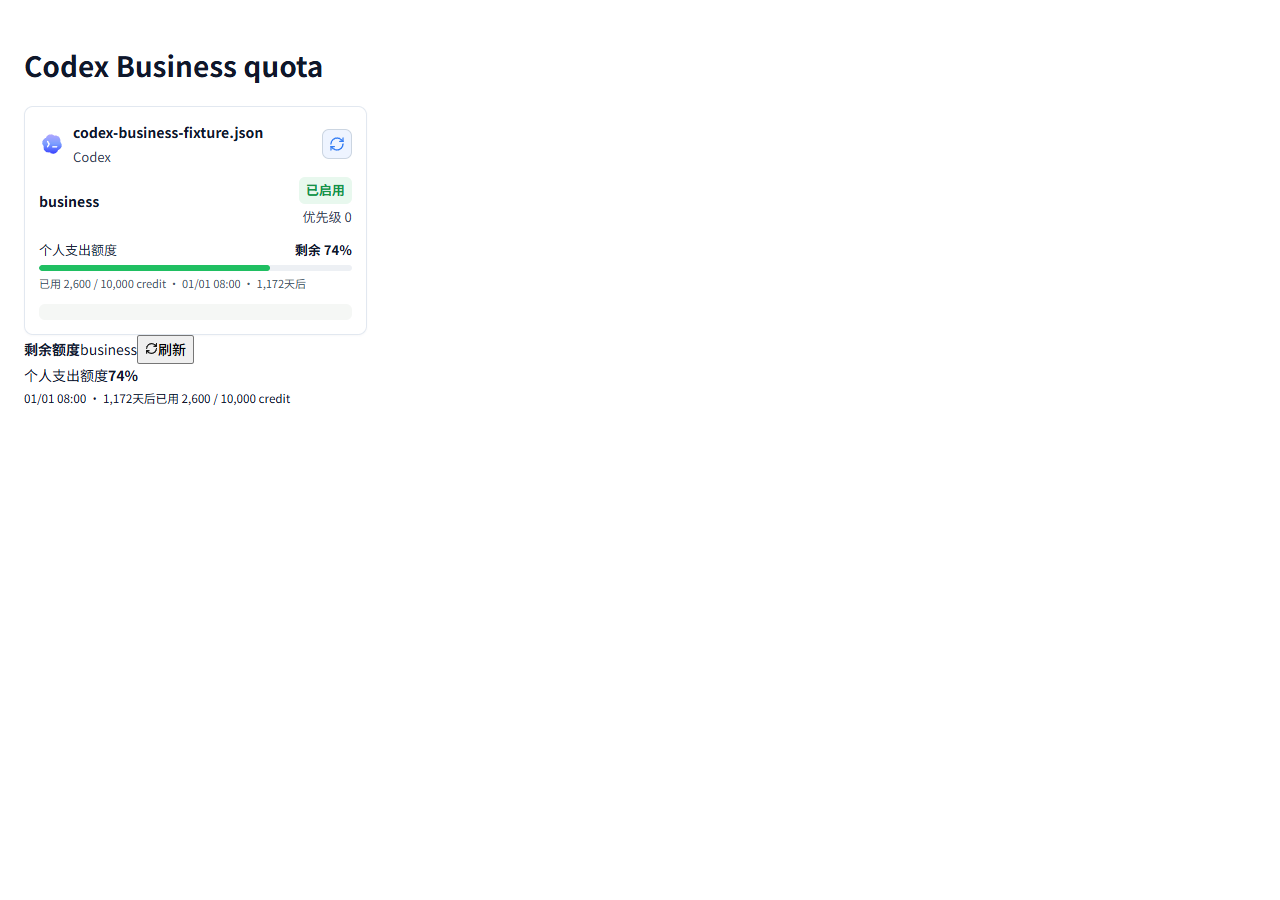
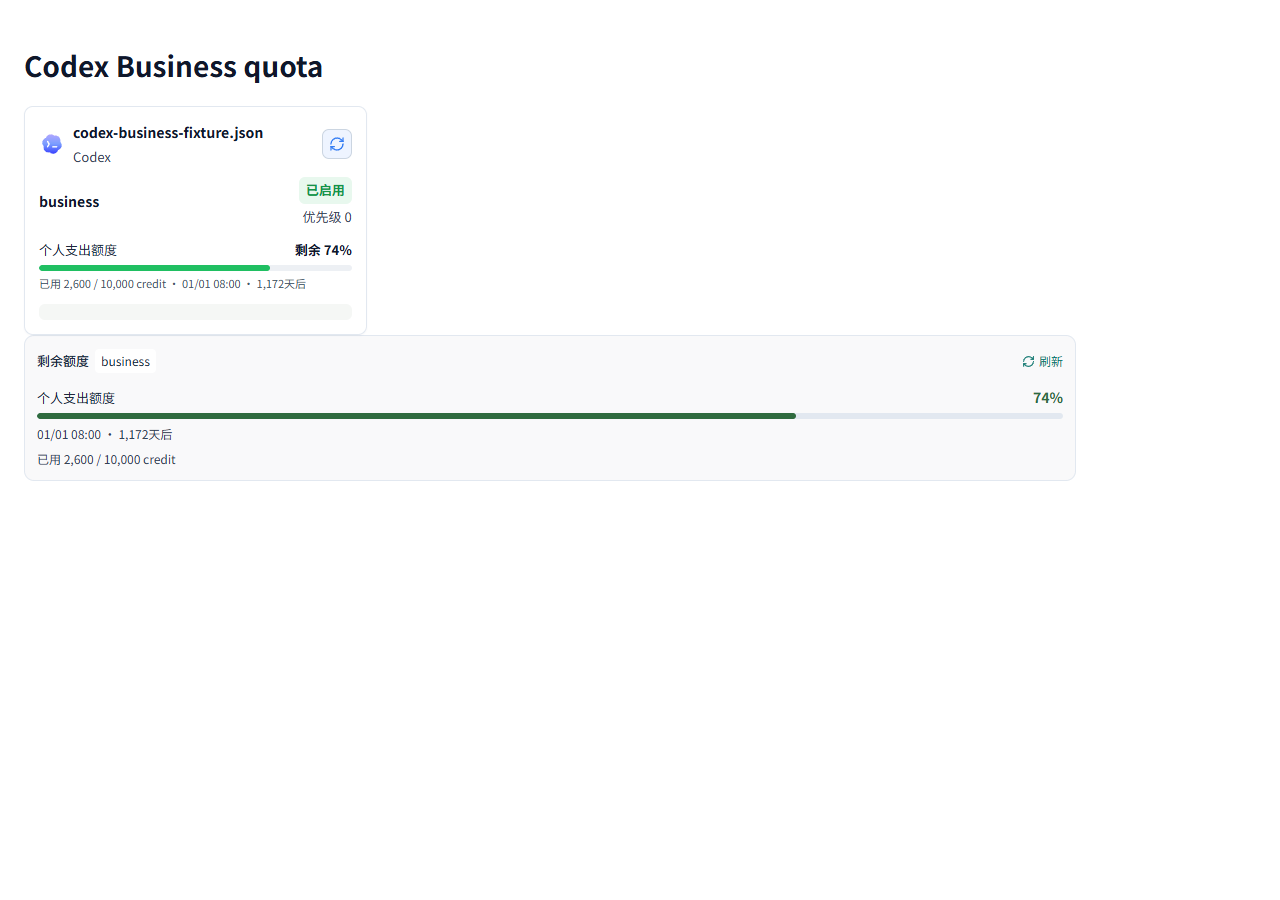
fix: align Antigravity quota windows and availability

Changed region(s): [[0.0, 0.3733, 0.8438, 0.5289], [0.8125, 0.3733, 0.8438, 0.4044]]

diff --git a/frontend/src/services/quotaService.ts b/frontend/src/services/quotaService.ts
@@ -1,3 +1,4 @@
+import { antigravityWindow, antigravityBucketLabel, antigravityGroupLabel, antigravityDescription } from './antigravityQuotaLabels';
 import { captureQuotaCacheGeneration } from './quotaCache';
 import { readClaudeResetGrants, type AnthropicResetGrantStatus } from './claudeResetGrants';
 import { selectResetGrant } from './selectClaudeResetGrant';
@@ -27,6 +28,7 @@ export type QuotaStatus = 'idle' | 'loading' | 'success' | 'unavailable' | 'erro
 export type QuotaRow = {
   label: string;
   remainingPercent: number | null;
+  quotaAvailable?: boolean;
   reset?: string;
   resetAtMs?: number;
   detail?: string;
@@ -95,7 +97,8 @@ const headersByProvider: Record<QuotaProvider, Record<string, string>> = {
   antigravity: {
     Authorization: 'Bearer $TOKEN$',
     'Content-Type': 'application/json',
-    'User-Agent': 'antigravity/cli/1.0.13 (aidev_client; os_type=darwin; arch=arm64)',
+    // Keep quota and loadCodeAssist requests aligned with the Hub client.
+    'User-Agent': 'antigravity/hub/2.23.0 darwin/arm64',
   },
 };
 
@@ -604,30 +607,37 @@ export const quotaRowsFor = (provider: QuotaProvider, payload: unknown): QuotaRo
   const summary = !Array.isArray(value.groups) && isRecord(nested) ? nested : value;
   const groups = Array.isArray(summary.groups) ? summary.groups : [];
   return groups.flatMap((group) => {
-    if (!isRecord(group) || !Array.isArray(group.buckets)) return [];
+    if (!isRecord(group) || !Array.isArray(group.buckets)) { return []; }
     const order = (bucket: unknown) => {
-      const window = readString(bucket, 'window').toLowerCase();
+      const window = antigravityWindow(readString(bucket, 'display_name', 'displayName', 'description'), readString(bucket, 'window'));
       return ['5h', 'five-hour', 'five_hour'].includes(window) ? 0 : ['weekly', 'week'].includes(window) ? 1 : 2;
     };
     const buckets = [...group.buckets].sort((a, b) => order(a) - order(b));
-    const groupLabel = readString(group, 'display_name', 'displayName')
-      || quotaText('quota.service.quota');
-    const groupDescription = readString(group, 'description');
+    const rawGroupLabel = readString(group, 'display_name', 'displayName');
+    const groupLabel = antigravityGroupLabel(rawGroupLabel) || quotaText('quota.service.quota');
+    const groupDescription = antigravityDescription(readString(group, 'description'));
+    const weeklyExhausted = buckets.some(bucket => isRecord(bucket)
+      && antigravityWindow(readString(bucket, 'display_name', 'displayName', 'description'), readString(bucket, 'window')) === 'weekly'
+      && quotaFraction(bucket.remaining_fraction ?? bucket.remainingFraction) === 0);
     return buckets
       .map((bucket, index): QuotaRow | null => {
-        if (!isRecord(bucket)) return null;
+        if (!isRecord(bucket)) { return null; }
         const remaining = quotaFraction(bucket.remaining_fraction ?? bucket.remainingFraction);
-        if (remaining === null) return null;
-        const bucketLabel = readString(bucket, 'display_name', 'displayName', 'window');
+        if (remaining === null) { return null; }
+        const rawBucketLabel = readString(bucket, 'display_name', 'displayName', 'description');
+        const window = readString(bucket, 'window');
+        const bucketLabel = antigravityBucketLabel(rawBucketLabel, window);
         const label = bucketLabel && (buckets.length > 1 || bucketLabel !== groupLabel)
           ? `${groupLabel} · ${bucketLabel}`
           : groupLabel;
         return {
           label: label || quotaText('quota.service.quota.numbered', { index: index + 1 }),
           remainingPercent: remaining * 100,
+          quotaAvailable: remaining === 1
+            && !(antigravityWindow(rawBucketLabel, window) === '5h' && weeklyExhausted),
           reset: absoluteResetLabel(bucket.reset_time ?? bucket.resetTime),
           resetAtMs: quotaResetFor(bucket, ['reset_time', 'resetTime']),
-          detail: readString(bucket, 'description') || groupDescription || undefined,
+          detail: [groupDescription, antigravityDescription(readString(bucket, 'description'))].filter(Boolean).join(' · ') || undefined,
         };
       })
       .filter((row): row is QuotaRow => row !== null);

diff --git a/frontend/tests/antigravityQuota.test.tsx b/frontend/tests/antigravityQuota.test.tsx
@@ -1,0 +1,41 @@
+import { describe, expect, it } from 'bun:test';
+import { renderToStaticMarkup } from 'react-dom/server';
+import { I18nProvider } from '../src/i18n';
+import { QuotaCard } from '../src/pages/QuotaPage';
+import { quotaRowsFor } from '../src/services/quotaService';
+import { antigravityDescription } from '../src/services/antigravityQuotaLabels';
+
+describe('Antigravity current quota response', () => {
+  const rowsFor = (weekly: number) => quotaRowsFor('antigravity', { groups: [{
+    displayName: 'Gemini Models',
+    description: 'Models within this group: Gemini Flash, Gemini Pro',
+    buckets: [
+      { displayName: 'Weekly Limit Remaining', remainingFraction: weekly },
+      { displayName: 'Five Hour Limit Remaining', remainingFraction: 1, resetTime: '2030-01-01T00:00:00Z' },
+    ],
+  }] });
+
+  it('recognizes new labels without window fields and preserves model details', () => {
+    const rows = rowsFor(0.4);
+    expect(rows.map(row => row.label)).toEqual(['Gemini models · 5-hour limit', 'Gemini models · Weekly limit']);
+    expect(rows[0].quotaAvailable).toBe(true);
+    expect(rows[0].resetAtMs).toBe(Date.parse('2030-01-01T00:00:00Z'));
+    expect(rows[0].detail).toBe('Models within this group: Gemini Flash, Gemini Pro');
+    expect(rows[0].detail).not.toContain('Gemini Argon');
+    expect(antigravityDescription('Models within this group: gemini argon')).toBe('Models within this group: gemini argon');
+    expect(antigravityDescription('Custom description')).toBe('Custom description');
+  });
+
+  it('does not claim availability when the weekly quota is exhausted', () => {
+    const rows = rowsFor(0);
+    expect(rows[0].remainingPercent).toBe(100);
+    expect(rows[0].quotaAvailable).toBe(false);
+    const render = (weekly: number) => renderToStaticMarkup(
+      <I18nProvider><QuotaCard file={{ name: 'test.json', provider: 'antigravity' }}
+        quota={{ status: 'success', rows: rowsFor(weekly) }} onRefresh={() => {}} onReset={() => {}} /></I18nProvider>,
+    );
+    expect(render(0)).not.toContain('Quota available');
+    expect(render(0)).toContain('100% remaining');
+    expect(render(0.4)).toContain('Quota available');
+  });
+});

diff --git a/frontend/tests/fixtures/antigravity-quota.tsx b/frontend/tests/fixtures/antigravity-quota.tsx
@@ -1,0 +1,43 @@
+import React from 'react';
+import { createRoot } from 'react-dom/client';
+import { I18nProvider, useI18n } from '../../src/i18n';
+import { QuotaCard } from '../../src/pages/QuotaPage';
+import { AuthFileQuotaPanel } from '../../src/components/AuthFileQuotaPanel';
+import { quotaRowsFor } from '../../src/services/quotaService';
+import '../../src/styles/index.css';
+import '../../src/pages/AuthFileManagementPage.css';
+
+const params = new URLSearchParams(location.search);
+localStorage.setItem('easy-cli-proxy-api.locale', params.get('locale') || 'en');
+
+function AntigravityQuotaFixture() {
+  useI18n();
+  const scenarios = params.has('exhausted') ? [0] : [0.4, 0];
+  return <main className="content" style={{ width: '100%', maxWidth: 1100, padding: 24 }}>
+    <section className="page quota-page">
+      <h1>Antigravity quota</h1>
+      <div className="real-quota-grid">
+        {scenarios.map(weekly => {
+          const file = { name: weekly === 0 ? 'weekly-exhausted.json' : 'quota-available.json', provider: 'antigravity' };
+          const rows = quotaRowsFor('antigravity', { groups: [{
+            displayName: 'Gemini Models',
+            description: 'Models within this group: Gemini Flash, Gemini Pro',
+            buckets: [
+              { displayName: 'Weekly Limit Remaining', remainingFraction: weekly },
+              { displayName: 'Five Hour Limit Remaining', remainingFraction: 1, resetTime: '2030-01-01T00:00:00Z' },
+            ],
+          }] });
+          const quota = { status: 'success' as const, rows };
+          return <div key={file.name}>
+            <QuotaCard file={file} quota={quota} onRefresh={() => {}} />
+            <AuthFileQuotaPanel file={file} quota={quota} disabled={false} onRefresh={() => {}} />
+          </div>;
+        })}
+      </div>
+    </section>
+  </main>;
+}
+
+createRoot(document.getElementById('root')!).render(
+  <I18nProvider><AntigravityQuotaFixture /></I18nProvider>,
+);

diff --git a/frontend/src/services/antigravityQuotaLabels.ts b/frontend/src/services/antigravityQuotaLabels.ts
@@ -1,0 +1,38 @@
+import { getCurrentLocale, translate } from '../i18n';
+
+const normalize = (value: string) => value.trim().toLowerCase().replace(/\s+/g, ' ');
+const text = (key: Parameters<typeof translate>[1], variables?: Parameters<typeof translate>[2]) =>
+  translate(getCurrentLocale(), key, variables);
+
+export const antigravityWindow = (label: string, window: string): string => {
+  const name = normalize(label).replace(/\s*(?:-|:)?\s*remaining$/, '').trim();
+  if (/^(5[ -]hour|five[ -]hour) limit$/.test(name)) { return '5h'; }
+  if (name === 'weekly limit') { return 'weekly'; }
+  if (name === 'daily limit') { return 'daily'; }
+  if (name === 'monthly limit') { return 'monthly'; }
+  const raw = normalize(window);
+  return ({ 'five-hour': '5h', five_hour: '5h', week: 'weekly', day: 'daily', month: 'monthly' } as Record<string, string>)[raw] ?? raw;
+};
+
+export const antigravityBucketLabel = (label: string, window: string): string => {
+  switch (antigravityWindow(label, window)) {
+    case '5h': return text('quota.service.limit.fiveHours');
+    case 'weekly': return text('quota.service.limit.week');
+    case 'monthly': return text('quota.service.limit.month');
+    case 'daily': return text('quota.service.antigravity.daily');
+    default: return label || window;
+  }
+};
+
+export const antigravityGroupLabel = (label: string): string => {
+  if (normalize(label) === 'gemini models') { return text('quota.service.antigravity.gemini'); }
+  if (normalize(label) === 'claude and gpt models') { return text('quota.service.antigravity.claudeGpt'); }
+  return label;
+};
+
+export const antigravityDescription = (description: string): string => {
+  const match = description.trim().match(/^models within this group:\s*(.+)$/i);
+  if (!match) { return description; }
+  const models = match[1].split(',').map(model => model.trim()).filter(Boolean);
+  return text('quota.service.antigravity.models', { models: models.join(', ') });
+};

diff --git a/frontend/src/components/AuthFileQuotaPanel.tsx b/frontend/src/components/AuthFileQuotaPanel.tsx
@@ -40,7 +40,7 @@ export function AuthFileQuotaPanel({ quota, file, disabled, onRefresh, onReset, 
       : reset;
     const tone = percent === null ? 'unknown' : percent <= 10 ? 'low' : percent <= 30 ? 'medium' : 'high';
     return <div className={`credential-quota-row ${tone}`} key={`${row.label}-${index}`}>
-      <div className="credential-quota-label"><span title={row.label}>{row.label}</span><strong>{percent === null ? '—' : `${Math.round(percent)}%`}</strong></div>
+      <div className="credential-quota-label"><span title={row.label}>{row.label}</span><strong>{row.quotaAvailable ? t('quota.service.antigravity.available') : percent === null ? '—' : `${Math.round(percent)}%`}</strong></div>
       <div className="credential-quota-track" role={percent === null ? undefined : 'progressbar'} aria-label={`${row.label} · ${t('authFiles.settings.quotaRemaining')}`}
         aria-valuemin={percent === null ? undefined : 0} aria-valuemax={percent === null ? undefined : 100} aria-valuenow={percent ?? undefined}>
         {percent === null ? <span className="sr-only">{t('authFiles.settings.quotaUnknown')}</span> : <i style={{ width: `${percent}%` }} />}

diff --git a/frontend/src/pages/QuotaPage.tsx b/frontend/src/pages/QuotaPage.tsx
@@ -236,7 +236,7 @@ export function QuotaCard({ file, quota, onRefresh, onReset }: { file: AuthFile;
       {quota.status === 'success' ? <div className="quota-row-list">{quota.rows.map((row, index) => {
         const reset = formatQuotaReset(row.resetAtMs, row.reset, locale, now);
         return <div className="real-quota-row" key={`${row.label}-${index}`}>
-          <div><span>{row.label}</span><strong>{row.remainingPercent === null ? '—' : t('quota.remaining', { percent: Math.round(row.remainingPercent) })}</strong></div>
+          <div><span>{row.label}</span><strong>{row.quotaAvailable ? t('quota.service.antigravity.available') : row.remainingPercent === null ? '—' : t('quota.remaining', { percent: Math.round(row.remainingPercent) })}</strong></div>
           {row.remainingPercent !== null ? <div className="real-quota-track"><span style={{ width: `${Math.max(0, Math.min(100, row.remainingPercent))}%` }} /></div> : null}
           <small>{[row.detail, reset].filter(Boolean).join(' · ')}</small>
         </div>;

diff --git a/frontend/src/i18n/locales/en.ts b/frontend/src/i18n/locales/en.ts
@@ -2059,6 +2059,11 @@ export const en: Record<MessageKey, string> = {
   'quota.service.duration.hours': '{count} hours',
   'quota.service.duration.minutes': '{count} minutes',
   'quota.service.duration.seconds': '{count} seconds',
+  'quota.service.antigravity.daily': 'Daily limit',
+  'quota.service.antigravity.gemini': 'Gemini models',
+  'quota.service.antigravity.claudeGpt': 'Claude and GPT models',
+  'quota.service.antigravity.models': 'Models within this group: {models}',
+  'quota.service.antigravity.available': 'Quota available',
   'quota.service.limit.fiveHours': '5-hour limit',
   'quota.service.limit.week': 'Weekly limit',
   'quota.service.limit.month': 'Monthly limit',

diff --git a/frontend/src/i18n/ja.ts b/frontend/src/i18n/ja.ts
@@ -2059,6 +2059,11 @@ export const jaOverrides = {
   'quota.service.duration.hours': '{count} 時間',
   'quota.service.duration.minutes': '{count} 分',
   'quota.service.duration.seconds': '{count} 秒',
+  'quota.service.antigravity.daily': '日間制限',
+  'quota.service.antigravity.gemini': 'Gemini モデル',
+  'quota.service.antigravity.claudeGpt': 'Claude と GPT モデル',
+  'quota.service.antigravity.models': 'このグループのモデル：{models}',
+  'quota.service.antigravity.available': 'クォータ利用可能',
   'quota.service.limit.fiveHours': '5 時間制限',
   'quota.service.limit.week': '週間制限',
   'quota.service.limit.month': '月間制限',

diff --git a/frontend/src/i18n/locales/zh-CN.ts b/frontend/src/i18n/locales/zh-CN.ts
@@ -2058,6 +2058,11 @@ export const zhCN = {
   'quota.service.duration.hours': '{count} 小时',
   'quota.service.duration.minutes': '{count} 分钟',
   'quota.service.duration.seconds': '{count} 秒',
+  'quota.service.antigravity.daily': '日限额',
+  'quota.service.antigravity.gemini': 'Gemini 模型',
+  'quota.service.antigravity.claudeGpt': 'Claude 和 GPT 模型',
+  'quota.service.antigravity.models': '此分组包含：{models}',
+  'quota.service.antigravity.available': '额度可用',
   'quota.service.limit.fiveHours': '5 小时限额',
   'quota.service.limit.week': '周限额',
   'quota.service.limit.month': '月限额',

diff --git a/frontend/tests/quotaRequests.test.ts b/frontend/tests/quotaRequests.test.ts
@@ -121,6 +121,9 @@ describe('quota API compatibility', () => {
     const requests = calls.filter((request) => request.url.endsWith(':retrieveUserQuotaSummary'));
     expect(requests).toHaveLength(2);
     expect(requests[1].url).toContain('sandbox.googleapis.com');
+    for (const request of calls) {
+      expect(request.header['User-Agent']).toBe('antigravity/hub/2.23.0 darwin/arm64');
+    }
     requests.forEach((request) => expect(JSON.parse(request.data!)).toEqual({ project: 'project-test' }));
     expect(Math.abs((result.serverTimeOffsetMs ?? 0) - (Date.parse(serverTime) - Date.now()))).toBeLessThan(1000);
   });

diff --git a/frontend/tests/fixtures/codex-business-quota.tsx b/frontend/tests/fixtures/codex-business-quota.tsx
@@ -6,6 +6,7 @@ import { AuthFileQuotaPanel } from '../../src/components/AuthFileQuotaPanel';
 import { quotaRowsFor } from '../../src/services/quotaService';
 import payload from './codex-business-spend-control.json';
 import '../../src/styles/index.css';
+import '../../src/pages/AuthFileManagementPage.css';
 
 localStorage.setItem('easy-cli-proxy-api.locale', new URLSearchParams(location.search).get('locale') || 'en');
 const file = { name: 'codex-business-fixture.json', provider: 'codex', auth_index: 'business-fixture' };

diff --git a/frontend/tests/fixtures/antigravity-quota.html b/frontend/tests/fixtures/antigravity-quota.html
@@ -1,0 +1,2 @@
+<!doctype html>
+<html><head><meta charset="UTF-8"><meta name="viewport" content="width=device-width, initial-scale=1.0"><title>Antigravity quota</title></head><body><div id="root"></div><script type="module" src="/tests/fixtures/antigravity-quota.tsx"></script></body></html>
